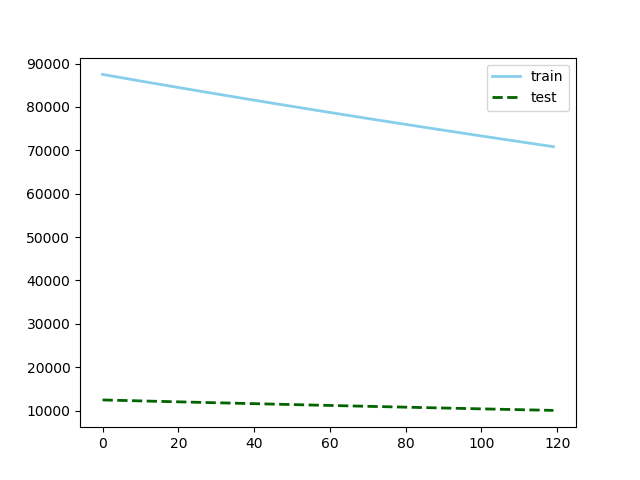
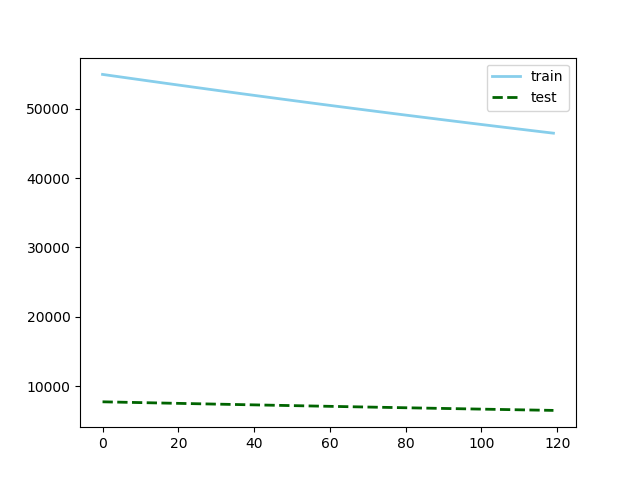
results with lr=0.4

diff --git a/src/auto_model_training.py b/src/auto_model_training.py
@@ -27,9 +27,9 @@ if __name__ == "__main__":
     learning_param_map = [
         #{'rule': 'Euler', 'no_step': 6, 'learning_rate': 0.1},
         #{'rule': 'Implicit Euler', 'no_step': 6, 'learning_rate': 0.1},
-        {'rule': 'Trapezoid', 'no_step': 6, 'learning_rate': 0.1},
+        {'rule': 'Trapezoid', 'no_step': 6, 'learning_rate': 0.4},
         #{'rule': 'Simpsons', 'no_step': 6, 'learning_rate': 0.1},
-        {'rule': 'Gaussian_Q', 'no_step': 6, 'learning_rate': 0.1}
+        {'rule': 'Gaussian_Q', 'no_step': 6, 'learning_rate': 0.4}
     ]
     analytical_definition = [{'rule': 'Analytical', 'no_step': 2, 'learning_rate': 0.001}]
     models_to_evaluate = [
@@ -74,5 +74,5 @@ if __name__ == "__main__":
             pickle.dump(model, open(model_filepath, 'wb'))
 
     print(evaluation_df)
-    evaluation_df.to_csv('results/jan_autoput_scores_0.3.csv', index=False)
+    evaluation_df.to_csv('results/jan_autoput_scores_0.4.csv', index=False)
 
